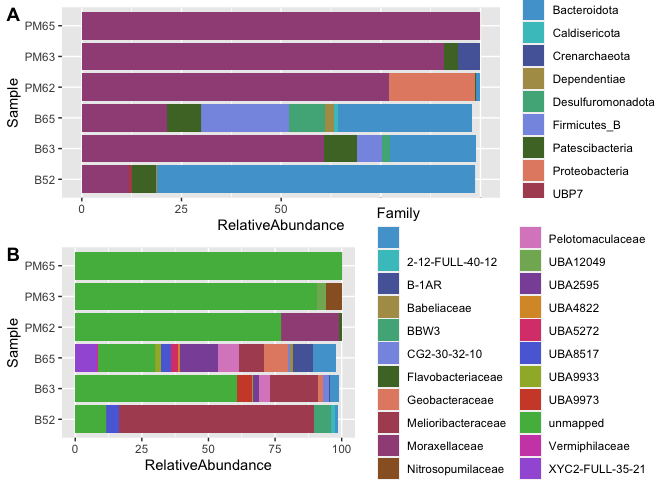
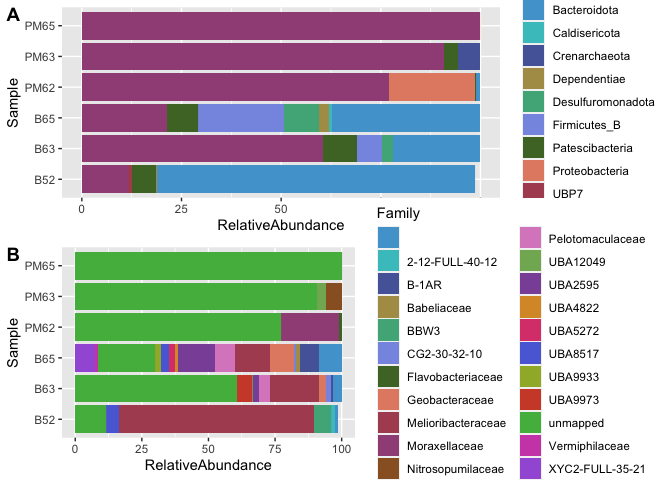
heatmap dram update

diff --git a/README.md b/README.md
@@ -759,7 +759,10 @@ Tabela DASTools
 
 </div>
 
-## Adicionalmente, o **DAS Tool** separa os bins que passaram o *threshold* na pasta `12.DasTool/_DASTool_bins/`.
+Adicionalmente, o **DAS Tool** separa os bins que passaram o *threshold*
+na pasta `12.DasTool/_DASTool_bins/`.
+
+------------------------------------------------------------------------
 
 ### 8. Qualidade dos MAGs
 
@@ -2840,14 +2843,15 @@ amostras.
 
     mkdir 20.Coverage
 
-    coverm genome --bam-files 06.Mapping/B52.sorted.bam 06.Mapping/B63.sorted.bam 06.Mapping/B65.sorted.bam 06.Mapping/PM62.sorted.bam 06.Mapping/PM63.sorted.bam 06.Mapping/PM65.sorted.bam -d 12.DasTool/_DASTool_bins/ -x fa --min-read-percent-identity 0.95 --methods relative_abundance --output-file 20.Coverage/output_coverm.tsv
+    coverm genome --bam-files 06.Mapping/B52.sorted.bam 06.Mapping/B63.sorted.bam 06.Mapping/B65.sorted.bam 06.Mapping/PM62.sorted.bam 06.Mapping/PM63.sorted.bam 06.Mapping/PM65.sorted.bam -d 12.DasTool/hq_mq_bins/ -x fa --min-read-percent-identity 0.95 --methods relative_abundance --output-file 20.Coverage/output_coverm.tsv
 
 Fazer download do arquivo de saída `20.Coverage/output_coverm.tsv`.
 
 A continuação, nos gráficos de barras pode ser observada a abundância
 relativa dos MAGs em cada amostra, junto com a afiliação taxonômica no
 nível de Filum (A) e de Familia (B). Para construir esses gráficos foi
-usado este [script]()
+usado este
+[script](https://github.com/khidalgo85/Binning/blob/master/docs/graphs2.R)
 
 <img src="imgs/unnamed-chunk-6-1.png" width="100%" />
 
@@ -2861,9 +2865,13 @@ bases de dados **KEGG** e **EggNog** com o programa *Diamond*.
 A continuação se encontram os comandos a usar em forma de loop para
 fazer cada processo em cada um dos MAGs.
 
+Primeiro foi criada uma pasta `12.DasTool/hq_mq_bins/` onde foram
+copiados os bins com alta e média qualidade segundo os resultados do
+*CheckM*.
+
 **Predição de ORFs - Prodigal**
 
-    for i in  12.DasTool/_DASTool_bins/*.fa 
+    for i in  12.DasTool/hq_mq_bins/*.fa 
     do
     BASE=$(basename $i .fa)
     nohup prodigal -i $i -o 21.ORFsPredicted/${BASE}_orf -a 21.ORFsPredicted/${BASE}_proteins.faa -d 21.ORFsPredicted/${BASE}_ORFnucleotides.faa -s 21.ORFsPredicted/${BASE}_genes
@@ -2877,7 +2885,8 @@ fazer cada processo em cada um dos MAGs.
       for j in /home/bioinfo/Documentos/Databases/SqueezeMeta/db/*dmnd
       do
       db=$(basename $j .dmnd)
-    diamond blastx --threads 20 --more-sensitive -k 1 -f 6 qseqid qlen sseqid sallseqid slen qstart qend sstart send evalue bitscore score length pident qcovhsp --id 80 --query-cover 80 --db $j --query $i -o 22.FunctionalAnnotation/${BASE}_${db}.txt --tmpdir /dev/shm
+    diamond blastx --threads 10 --more-sensitive -k 1 -f 6 qseqid qlen sseqid sallseqid slen qstart qend sstart send evalue bitscore score length pident qcovhsp --id 60 --query-cover 60 --db $j --query $i -o 22.FunctionalAnnotation/${BASE}_${db}.txt --tmpdir /dev/shm
+     done
      done
 
 Agora com uma série de comandos, vão ser juntadas as anotações de *Kegg*
@@ -2935,3 +2944,11 @@ Usando o *Batch Import Assembly from Staging Area* com o set de MAGs,
 criado na anotação taxonômica, procure nas **Apps Beta** *Annotate and
 Distill Assemblies with DRAM*. Coloque o set de MAGs, e dê click em RUN
 (Paciência vai demorar).
+
+Após terminar faça download do arquivo `product.html` o qual é um
+heatmap interativo, explore ele!
+
+<img src="imgs/visualization.png" width="100%" height="100%" style="display: block; margin: auto;" />
+
+[Aqui](https://github.com/khidalgo85/Binning/blob/master/imgs/visualization.png)
+pode abrir o heatmap de cima para fazer zoom.
